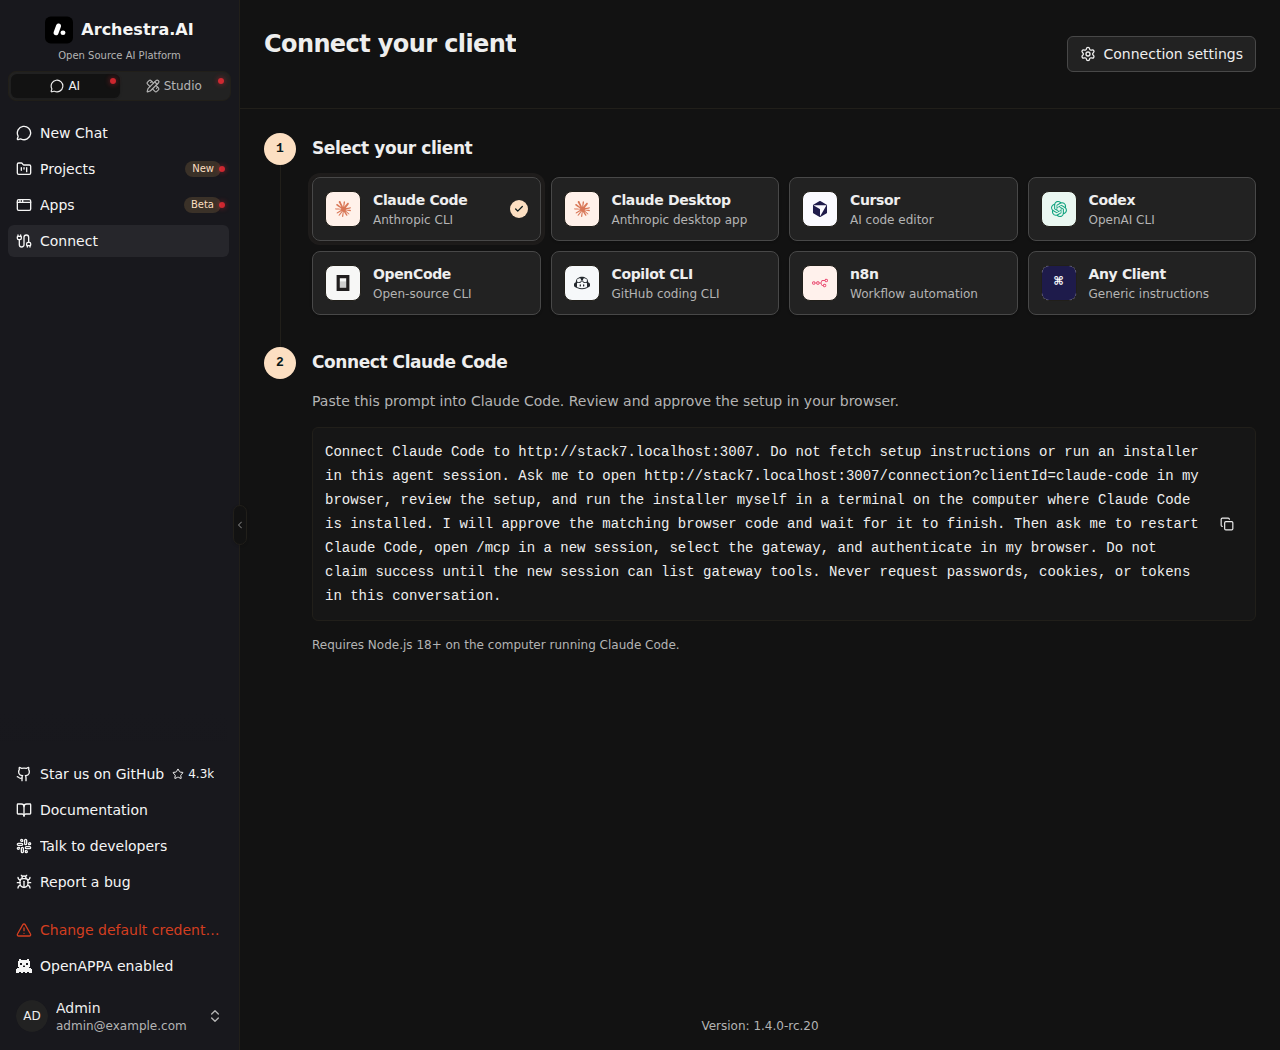
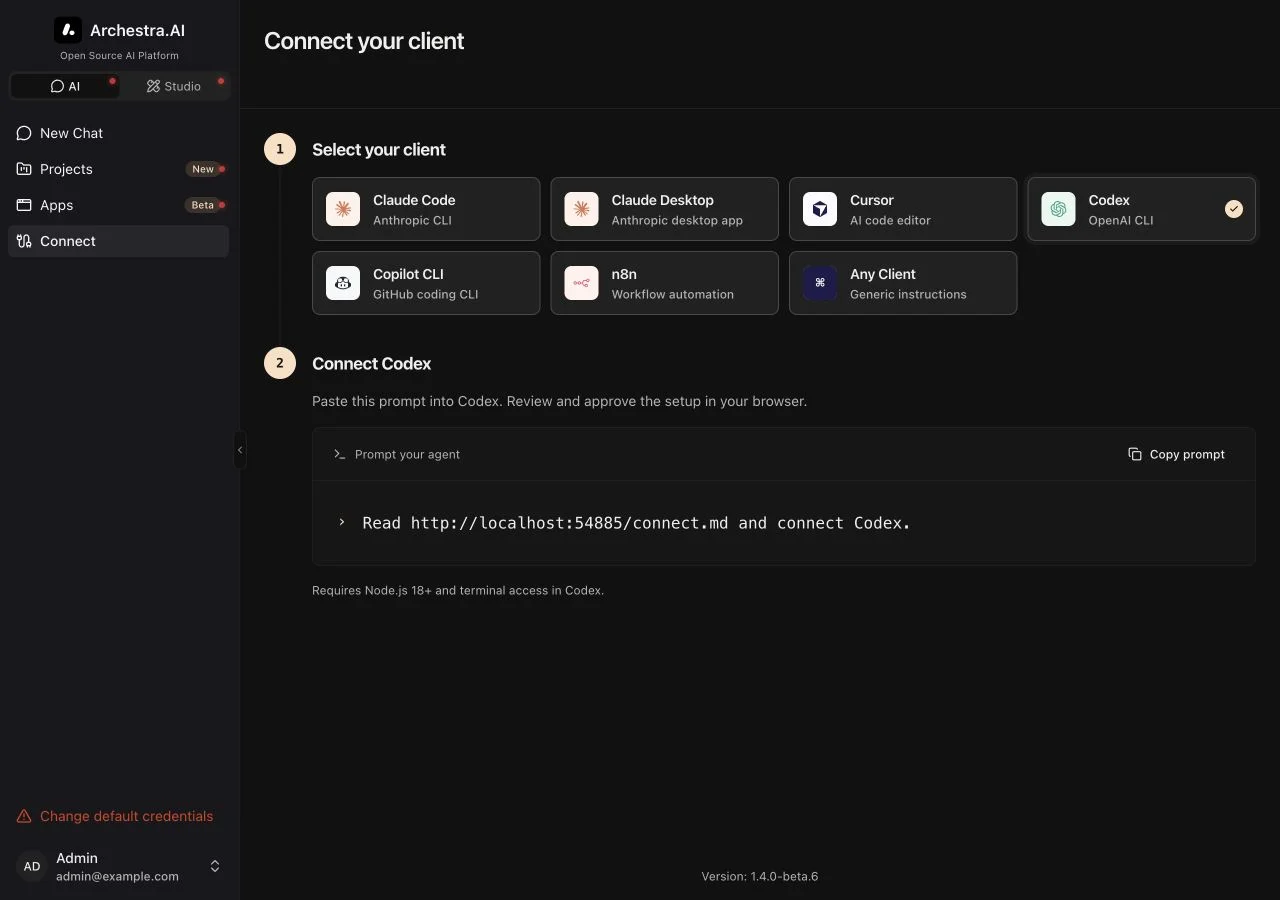
Revert "fix(connection): avoid guarded fetch during client bootstrap (#8207)"
This reverts commit 010060ee44a2287d41b5b1a0528faedd5aadaba4.

diff --git a/platform/frontend/src/app/connection/connect-with-ai.tsx b/platform/frontend/src/app/connection/connect-with-ai.tsx
@@ -16,19 +16,7 @@ export function ConnectWithAi({ client }: { client: ConnectClient }) {
     const timeout = setTimeout(() => setCopied(false), 2000);
     return () => clearTimeout(timeout);
   }, [copied]);
-  // Other clients can avoid a guarded WebFetch during bootstrap.
-  const prompt =
-    client.id === "claude-code"
-      ? `Read ${origin}/connect.md and connect Claude Code.`
-      : `Connect ${client.label} to ${origin}. Do not fetch setup instructions. Run the command for your terminal (Node.js 18+ required):
-
-macOS/Linux:
-p="$(mktemp)"; trap 'rm -f "$p"' EXIT; curl --fail --silent --show-error ${origin}/api/client-connections/installer --output "$p" && node "$p" --url ${origin} --client ${client.id}
-
-Windows PowerShell:
-$p=[IO.Path]::GetTempFileName(); try { Invoke-WebRequest -UseBasicParsing -Uri ${origin}/api/client-connections/installer -OutFile $p; node $p --url ${origin} --client ${client.id} } finally { Remove-Item $p -Force -ErrorAction SilentlyContinue }
-
-Allow at least 10 minutes for the command while the user approves the matching code in their browser. If the browser does not open, show the approval URL and code. Do not start another installer or replace this flow with manual API calls. After it finishes, follow its client-specific restart and MCP sign-in instructions. Verify the gateway and proxy in a new session before reporting success.`;
+  const prompt = `Read ${origin}/connect.md and connect ${client.label}.`;
 
   return (
     <div className="space-y-4">
@@ -37,7 +25,7 @@ Allow at least 10 minutes for the command while the user approves the matching c
         your browser.
       </p>
       <div className="flex items-center gap-3 rounded-md border bg-muted/30 p-3">
-        <code className="min-w-0 flex-1 whitespace-pre-wrap break-words font-mono text-sm leading-6">
+        <code className="min-w-0 flex-1 break-words font-mono text-sm leading-6">
           {origin ? prompt : "Loading your connection prompt…"}
         </code>
         <Button

diff --git a/platform/frontend/src/app/connection/connect-with-ai.test.tsx b/platform/frontend/src/app/connection/connect-with-ai.test.tsx
@@ -17,29 +17,8 @@ test.each([
   const client = CONNECT_CLIENTS.find((entry) => entry.id === id);
   if (!client) throw new Error("Missing client");
   render(<ConnectWithAi client={client} />);
-  const prompt =
-    id === "claude-code"
-      ? screen.getByText(
-          `Read ${window.location.origin}/connect.md and connect Claude Code.`,
-        ).textContent
-      : screen.getByText(/Do not fetch setup instructions/).textContent;
-  if (id === "claude-code") {
-    expect(prompt).toBe(
-      `Read ${window.location.origin}/connect.md and connect Claude Code.`,
-    );
-  } else {
-    expect(prompt).toContain(
-      `Connect ${client.label} to ${window.location.origin}.`,
-    );
-    expect(prompt).not.toContain("/connect.md");
-    expect(prompt).toContain(
-      `node "$p" --url ${window.location.origin} --client ${id}`,
-    );
-    expect(prompt).toContain(
-      `node $p --url ${window.location.origin} --client ${id}`,
-    );
-    expect(prompt).toContain("matching code in their browser");
-  }
+  const prompt = `Read ${window.location.origin}/connect.md and connect ${client.label}.`;
+  expect(screen.getByText(prompt)).toBeVisible();
   await user.click(screen.getByRole("button", { name: "Copy prompt" }));
   expect(await navigator.clipboard.readText()).toBe(prompt);
   expect(screen.getByRole("button", { name: "Copied" })).toBeVisible();

diff --git a/platform/frontend/src/app/connection/connect-command-panel.test.tsx b/platform/frontend/src/app/connection/connect-command-panel.test.tsx
@@ -262,8 +262,10 @@ describe("ConnectCommandPanel", () => {
           screen.getByRole("heading", { name: `Connect ${label}` }),
         ).toBeVisible();
         expect(
-          screen.getByText(/Do not fetch setup instructions/),
-        ).toHaveTextContent(`Connect ${label} to ${window.location.origin}.`);
+          screen.getByText(
+            `Read ${window.location.origin}/connect.md and connect ${label}.`,
+          ),
+        ).toBeVisible();
       }
       expect(createSetupMock).not.toHaveBeenCalled();
       await user.click(

diff --git a/docs/pages/platform-connection.md b/docs/pages/platform-connection.md
@@ -8,19 +8,23 @@ lastUpdated: 2026-09-25
 
 <!-- Renaming/deleting this file? Add a redirect in docs/redirects.json. -->
 
-![Browser approval with a matching terminal code](/docs/automated_screenshots/platform-connection_browser-approval.webp)
+![The Connection page with a copyable coding-agent prompt](/docs/automated_screenshots/platform-connection_connect-with-ai.webp)
 
 Select your client on the Connection page. Claude Code, Cursor, Codex, Copilot CLI, and OpenCode show a setup prompt. Your agent prepares the connection; you review and approve it in your browser.
 
 Claude Desktop, n8n, and other clients show their setup instructions. Your selected client stays in the URL when you refresh or share the page.
 
-The page prompt downloads a Node.js installer before browser approval. After approval, setup runs through `curl -fsSL <url> | bash` on macOS and Linux or `irm <url> | iex` on Windows. Plugins declare whether they support macOS/Linux, Windows, or both; the review includes only compatible plugins and names those that were skipped.
+On macOS and Linux the command is `curl -fsSL <url> | bash`. On Windows it is `irm <url> | iex`. Running it configures the client in place. Plugins declare whether they support macOS/Linux, Windows, or both; the review includes only plugins compatible with the selected operating system and names incompatible plugins that were skipped.
 
 ## Connect From Your Coding Client
 
-Copy the prompt for your client from the Connection page. Claude Code reads `/connect.md` and runs the installer after browser approval. Other coding clients receive the installer command directly in the prompt.
+The terminal on the Connection page provides a prompt for your deployment.
+You can also give your coding agent this prompt, replacing the example hostname:
 
-The prompt supports Claude Code, Cursor, Codex, Copilot CLI, and OpenCode.
+> Read https://ai.example.com/connect.md and connect this client.
+
+The public instructions need no installed skill or platform login.
+They support Claude Code, Cursor, Codex, Copilot CLI, and OpenCode.
 The terminal needs Node.js 18 or newer on macOS, Linux, or Windows.
 
 The agent downloads a public bootstrap installer and starts a connection request.
@@ -28,6 +32,7 @@ Your browser opens a compact approval page for the requested client and operatin
 The setup uses your deployment’s defaults. **Customize setup** reveals the optional settings.
 Sign in using your deployment's usual login or SSO.
 Review the configuration and confirm that the browser code matches your terminal.
+![Browser approval with a matching terminal code](/docs/automated_screenshots/platform-connection_browser-approval.webp)
 
 Approval releases the setup script to the waiting installer.
 Denying the request prevents installation.
@@ -68,7 +73,7 @@ Only approve a request you started with a matching terminal code.
 Never paste passwords, cookies, polling secrets, or setup scripts into a chat.
 
 Deployments expose `/llms.txt` with a link to `/connect.md`.
-Automatic discovery varies by client; the page prompt does not rely on discovery.
+Automatic discovery varies by client; the explicit prompt above avoids relying on discovery.
 Both public documents must remain reachable without application authentication.
 An upstream proxy that requires login for every URL must allow these documents and bootstrap endpoints.
 
